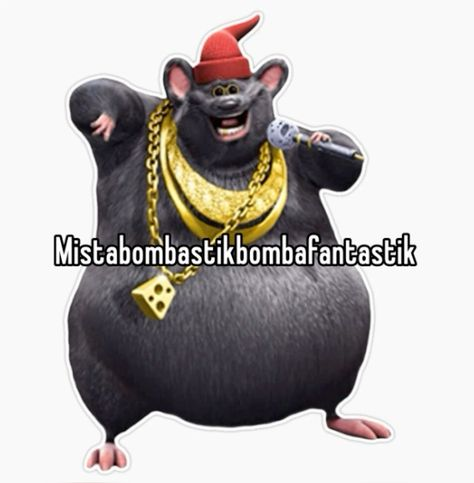
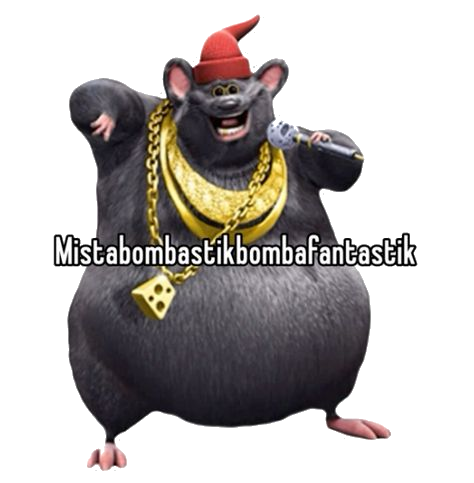
fix(overseer): transparent rat image and robust verdict button click handling

diff --git a/frontend/src/views/bombastic.ts b/frontend/src/views/bombastic.ts
@@ -23,7 +23,7 @@ export function renderBombastic(): string {
         <div class="max-w-[1340px] w-full mx-auto px-4 md:px-6 flex items-center justify-between">
           <div class="flex items-center space-x-4">
             <div class="flex items-center space-x-2.5">
-              <img src="/bombastic.png" alt="Mr. Boombastic" class="w-7 h-7 rounded-lg object-cover border border-rose-500/40 shadow-sm" />
+              <img src="/bombastic.png" alt="Mr. Boombastic" class="w-7 h-7 rounded-lg object-contain p-0.5 bg-rose-950/30 border border-rose-500/40 shadow-sm" />
               <span class="font-mono font-black text-sm tracking-widest text-rose-500 uppercase">MISTERBOMBASTIC</span>
             </div>
             <span class="hidden sm:inline-block px-2 py-0.5 rounded-full bg-rose-500/10 border border-rose-500/30 text-rose-400 font-mono text-[10px] font-bold tracking-wider">
@@ -167,8 +167,11 @@ export function renderBombastic(): string {
           <div class="absolute -top-24 -right-24 w-48 h-48 bg-rose-500/10 rounded-full blur-3xl pointer-events-none"></div>
 
           <div class="flex items-center justify-between border-b border-white/10 pb-4">
+          <div class="flex items-center justify-between border-b border-white/10 pb-4">
             <div class="flex items-center gap-3">
-              <img src="/bombastic.png" alt="Mr. Boombastic" class="w-10 h-10 rounded-xl object-cover border border-rose-500/40 shadow-inner" />
+              <div class="w-12 h-12 rounded-2xl bg-rose-500/10 border border-rose-500/20 flex items-center justify-center p-1 shadow-inner">
+                <img src="/bombastic.png" alt="Mr. Boombastic" class="w-full h-full object-contain filter drop-shadow-[0_2px_8px_rgba(244,63,94,0.3)]" />
+              </div>
               <div>
                 <div class="text-[10px] font-mono uppercase tracking-wider text-rose-400 font-bold">One Above All Authority</div>
                 <h3 class="text-base font-bold text-white font-mono uppercase tracking-tight">Issue Overseer Verdict</h3>
@@ -186,7 +189,7 @@ export function renderBombastic(): string {
             <div class="text-zinc-200 text-xs truncate font-medium pt-0.5" id="audit-target-task">...</div>
           </div>
 
-          <form id="audit-verdict-form" class="space-y-4">
+          <form id="audit-verdict-form" novalidate class="space-y-4">
             <input type="hidden" id="audit-task-id" />
             <input type="hidden" id="audit-user-id" />
 
@@ -208,7 +211,7 @@ export function renderBombastic(): string {
               </div>
               <div>
                 <label class="block text-[11px] font-mono text-zinc-400 uppercase tracking-wider mb-1">Adjusted Actual Hours</label>
-                <input type="number" step="0.25" min="0.1" max="12" id="audit-new-hours" class="w-full bg-[#140e10] border border-white/10 text-white font-mono text-xs rounded-xl px-3 py-2 outline-none" placeholder="1.0" />
+                <input type="number" id="audit-new-hours" class="w-full bg-[#140e10] border border-white/10 text-white font-mono text-xs rounded-xl px-3 py-2 outline-none" placeholder="1.0" />
               </div>
             </div>
 
@@ -216,7 +219,6 @@ export function renderBombastic(): string {
               <label class="block text-[11px] font-mono text-zinc-400 uppercase tracking-wider mb-1.5">Overseer Verdict Reason (Mandatory)</label>
               <textarea
                 id="audit-reason"
-                required
                 rows="3"
                 class="w-full bg-[#140e10] border border-white/10 focus:border-rose-500/50 focus:ring-1 focus:ring-rose-500/30 text-white font-sans text-xs rounded-xl p-3 outline-none transition-all placeholder:text-zinc-600 leading-relaxed resize-none"
                 placeholder="Explain the verdict reason (displayed on operative popup & squad activity feed)..."
@@ -238,9 +240,9 @@ export function renderBombastic(): string {
                 Cancel
               </button>
               <button
-                type="submit"
+                type="button"
                 id="submit-verdict-btn"
-                class="px-5 py-2 text-xs font-mono font-bold text-white bg-gradient-to-r from-rose-600 to-rose-700 hover:from-rose-500 hover:to-rose-600 rounded-xl transition-all cursor-pointer shadow-lg shadow-rose-950/50 flex items-center gap-1.5"
+                class="px-5 py-2.5 text-xs font-mono font-bold text-white bg-gradient-to-r from-rose-600 to-rose-700 hover:from-rose-500 hover:to-rose-600 rounded-xl transition-all cursor-pointer shadow-lg shadow-rose-950/50 flex items-center gap-2 active:scale-95"
               >
                 <span>Execute Verdict</span>
               </button>
@@ -257,7 +259,9 @@ export function renderBombastic(): string {
 
           <div class="flex items-center justify-between border-b border-white/10 pb-4">
             <div class="flex items-center gap-3">
-              <img src="/bombastic.png" alt="Mr. Boombastic" class="w-10 h-10 rounded-xl object-cover border border-amber-500/40 shadow-inner" />
+              <div class="w-12 h-12 rounded-2xl bg-amber-500/10 border border-amber-500/20 flex items-center justify-center p-1 shadow-inner">
+                <img src="/bombastic.png" alt="Mr. Boombastic" class="w-full h-full object-contain filter drop-shadow-[0_2px_8px_rgba(245,158,11,0.3)]" />
+              </div>
               <div>
                 <div class="text-[10px] font-mono uppercase tracking-wider text-amber-400 font-bold">Authoritative Sanction</div>
                 <h3 class="text-base font-bold text-white font-mono uppercase tracking-tight">Revoke Gym Check-in</h3>
@@ -266,7 +270,7 @@ export function renderBombastic(): string {
             <button type="button" id="close-quick-gym-btn" class="w-8 h-8 rounded-full bg-white/5 hover:bg-white/10 text-zinc-400 hover:text-white flex items-center justify-center transition-colors cursor-pointer">✕</button>
           </div>
 
-          <form id="quick-gym-form" class="space-y-4">
+          <form id="quick-gym-form" novalidate class="space-y-4">
             <div>
               <label class="block text-[11px] font-mono text-zinc-400 uppercase tracking-wider mb-1.5">Target Operative</label>
               <select id="quick-gym-user-select" class="w-full bg-[#140e10] border border-white/10 focus:border-amber-500/50 focus:ring-1 focus:ring-amber-500/30 text-white font-mono text-xs rounded-xl px-3.5 py-2.5 outline-none transition-all cursor-pointer">
@@ -660,51 +664,80 @@ export function setupBombasticLogic(navigateFn: (route: string) => void) {
   if (closeAuditBtn) closeAuditBtn.addEventListener('click', () => auditModal.classList.add('hidden'));
   if (cancelAuditBtn) cancelAuditBtn.addEventListener('click', () => auditModal.classList.add('hidden'));
 
-  if (auditForm) {
-    auditForm.addEventListener('submit', async (e) => {
-      e.preventDefault();
-      const submitBtn = document.getElementById('submit-verdict-btn') as HTMLButtonElement;
-      submitBtn.disabled = true;
-      submitBtn.textContent = 'Enforcing...';
+  const executeVerdictHandler = async () => {
+    const submitBtn = document.getElementById('submit-verdict-btn') as HTMLButtonElement;
+    const reasonInput = document.getElementById('audit-reason') as HTMLTextAreaElement;
+    const reason = reasonInput ? reasonInput.value.trim() : '';
 
-      const taskId = (document.getElementById('audit-task-id') as HTMLInputElement).value;
-      const userId = (document.getElementById('audit-user-id') as HTMLInputElement).value;
-      const actionType = auditActionSelect.value;
-      const reason = (document.getElementById('audit-reason') as HTMLTextAreaElement).value;
-
-      try {
-        let verdict: VerdictItem;
-        if (actionType === 'REVOKE_GYM') {
-          verdict = await revokeGymVerdict(userId, reason);
-        } else if (actionType === 'REJECT_TASK') {
-          verdict = await rejectTaskVerdict(taskId, reason);
-        } else if (actionType === 'REWRITE_TASK') {
-          const newTitle = (document.getElementById('audit-new-title') as HTMLInputElement).value;
-          const newHours = parseFloat((document.getElementById('audit-new-hours') as HTMLInputElement).value) || 1.0;
-          verdict = await rewriteTaskVerdict(taskId, newTitle, newHours, reason);
-        } else {
-          verdict = await revertPendingVerdict(taskId, reason);
-        }
-
-        auditModal.classList.add('hidden');
-        showNotification(`⚖ Verdict executed: -${verdict.points_deducted} pts docked!`);
-
-        // Broadcast verdict to all connected operatives via Supabase Realtime
-        try {
-          supabase.channel('squad-verdicts').send({
-            type: 'broadcast',
-            event: 'verdict-issued',
-            payload: verdict
-          });
-        } catch {}
-
-        await loadAllOverseerTelemetry();
-      } catch (err: any) {
-        showNotification(`Verdict execution failed: ${err.message}`, 'error');
-      } finally {
-        submitBtn.disabled = false;
-        submitBtn.textContent = 'Execute Verdict';
+    if (!reason) {
+      showNotification('Verdict Reason Required: Please specify the reason for this sanction.', 'error');
+      if (reasonInput) {
+        reasonInput.focus();
+        reasonInput.classList.add('border-rose-500', 'ring-1', 'ring-rose-500');
+        setTimeout(() => reasonInput.classList.remove('border-rose-500', 'ring-1', 'ring-rose-500'), 2500);
       }
+      return;
+    }
+
+    if (submitBtn) {
+      submitBtn.disabled = true;
+      submitBtn.innerHTML = `<span class="w-3.5 h-3.5 rounded-full border-2 border-white border-t-transparent animate-spin mr-1"></span><span>Enforcing...</span>`;
+    }
+
+    const taskId = (document.getElementById('audit-task-id') as HTMLInputElement).value;
+    const userId = (document.getElementById('audit-user-id') as HTMLInputElement).value;
+    const actionType = auditActionSelect.value;
+
+    try {
+      let verdict: VerdictItem;
+      if (actionType === 'REVOKE_GYM') {
+        verdict = await revokeGymVerdict(userId, reason);
+      } else if (actionType === 'REJECT_TASK') {
+        verdict = await rejectTaskVerdict(taskId, reason);
+      } else if (actionType === 'REWRITE_TASK') {
+        const newTitle = (document.getElementById('audit-new-title') as HTMLInputElement).value || 'Audited Task';
+        const newHours = parseFloat((document.getElementById('audit-new-hours') as HTMLInputElement).value) || 1.0;
+        verdict = await rewriteTaskVerdict(taskId, newTitle, newHours, reason);
+      } else {
+        verdict = await revertPendingVerdict(taskId, reason);
+      }
+
+      auditModal.classList.add('hidden');
+      showNotification(`⚖ Verdict executed: -${verdict.points_deducted} pts docked from ${verdict.target_user_name || 'Operative'}!`);
+
+      // Broadcast verdict to all connected operatives via Supabase Realtime
+      try {
+        supabase.channel('squad-verdicts').send({
+          type: 'broadcast',
+          event: 'verdict-issued',
+          payload: verdict
+        });
+      } catch {}
+
+      await loadAllOverseerTelemetry();
+    } catch (err: any) {
+      console.error("Verdict execution error:", err);
+      showNotification(`Verdict execution failed: ${err.message}`, 'error');
+    } finally {
+      if (submitBtn) {
+        submitBtn.disabled = false;
+        submitBtn.innerHTML = `<span>Execute Verdict</span>`;
+      }
+    }
+  };
+
+  const submitVerdictBtn = document.getElementById('submit-verdict-btn');
+  if (submitVerdictBtn) {
+    submitVerdictBtn.addEventListener('click', (e) => {
+      e.preventDefault();
+      executeVerdictHandler();
+    });
+  }
+
+  if (auditForm) {
+    auditForm.addEventListener('submit', (e) => {
+      e.preventDefault();
+      executeVerdictHandler();
     });
   }
 
@@ -722,39 +755,67 @@ export function setupBombasticLogic(navigateFn: (route: string) => void) {
   if (closeQuickGymBtn) closeQuickGymBtn.addEventListener('click', () => quickGymModal.classList.add('hidden'));
   if (cancelQuickGymBtn) cancelQuickGymBtn.addEventListener('click', () => quickGymModal.classList.add('hidden'));
 
-  if (quickGymForm) {
-    quickGymForm.addEventListener('submit', async (e) => {
-      e.preventDefault();
-      const submitBtn = document.getElementById('submit-quick-gym-btn') as HTMLButtonElement;
-      submitBtn.disabled = true;
-      submitBtn.textContent = 'Revoking...';
+  const executeQuickGymHandler = async () => {
+    const submitBtn = document.getElementById('submit-quick-gym-btn') as HTMLButtonElement;
+    const reasonInput = document.getElementById('quick-gym-reason') as HTMLTextAreaElement;
+    const reason = reasonInput ? reasonInput.value.trim() : '';
 
-      const targetUid = quickGymUserSelect.value;
-      const reason = (document.getElementById('quick-gym-reason') as HTMLTextAreaElement).value;
+    if (!reason) {
+      showNotification('Revocation Reason Required: Please specify why gym check-in is invalid.', 'error');
+      if (reasonInput) {
+        reasonInput.focus();
+        reasonInput.classList.add('border-amber-500', 'ring-1', 'ring-amber-500');
+        setTimeout(() => reasonInput.classList.remove('border-amber-500', 'ring-1', 'ring-amber-500'), 2500);
+      }
+      return;
+    }
+
+    if (submitBtn) {
+      submitBtn.disabled = true;
+      submitBtn.innerHTML = `<span class="w-3.5 h-3.5 rounded-full border-2 border-white border-t-transparent animate-spin mr-1"></span><span>Revoking...</span>`;
+    }
+
+    const targetUid = quickGymUserSelect.value;
+
+    try {
+      const v = await revokeGymVerdict(targetUid, reason);
+      quickGymModal.classList.add('hidden');
+      if (quickGymForm) (quickGymForm as HTMLFormElement).reset();
+      showNotification(`🏋 Gym Check-in Revoked: -${v.points_deducted} pts docked!`);
 
       try {
-        const v = await revokeGymVerdict(targetUid, reason);
-        quickGymModal.classList.add('hidden');
-        quickGymForm.reset();
-        showNotification(`🏋 Gym Check-in Revoked: -${v.points_deducted} pts docked!`);
+        supabase.channel('squad-verdicts').send({
+          type: 'broadcast',
+          event: 'verdict-issued',
+          payload: v
+        });
+      } catch {}
 
-        // Broadcast gym revocation verdict to squad
-        try {
-          supabase.channel('squad-verdicts').send({
-            type: 'broadcast',
-            event: 'verdict-issued',
-            payload: v
-          });
-        } catch {}
+      await loadAllOverseerTelemetry();
 
-        await loadAllOverseerTelemetry();
-
-      } catch (err: any) {
-        showNotification(`Gym revocation failed: ${err.message}`, 'error');
-      } finally {
+    } catch (err: any) {
+      console.error("Gym revoke error:", err);
+      showNotification(`Gym revocation failed: ${err.message}`, 'error');
+    } finally {
+      if (submitBtn) {
         submitBtn.disabled = false;
-        submitBtn.textContent = 'Revoke (-5 pts)';
+        submitBtn.innerHTML = `<span>Revoke (-5 pts)</span>`;
       }
+    }
+  };
+
+  const submitQuickGymBtn = document.getElementById('submit-quick-gym-btn');
+  if (submitQuickGymBtn) {
+    submitQuickGymBtn.addEventListener('click', (e) => {
+      e.preventDefault();
+      executeQuickGymHandler();
+    });
+  }
+
+  if (quickGymForm) {
+    quickGymForm.addEventListener('submit', (e) => {
+      e.preventDefault();
+      executeQuickGymHandler();
     });
   }
 

diff --git a/frontend/src/views/dashboard.ts b/frontend/src/views/dashboard.ts
@@ -1009,8 +1009,8 @@ function renderFilteredTasks(container: HTMLDivElement) {
         const label = actionLabels[v.action_type] || v.action_type;
         return `
           <div class="p-3.5 rounded-2xl bg-[#120a0b] border border-rose-500/30 flex items-start gap-3 shadow-lg shadow-black/40 text-left">
-            <div class="w-9 h-9 rounded-xl overflow-hidden border border-rose-500/40 shrink-0 bg-black shadow-inner">
-              <img src="/bombastic.png" alt="Mr. Boombastic" class="w-full h-full object-cover" />
+            <div class="w-9 h-9 rounded-xl overflow-hidden border border-rose-500/40 shrink-0 bg-rose-950/20 shadow-inner p-0.5">
+              <img src="/bombastic.png" alt="Mr. Boombastic" class="w-full h-full object-contain filter drop-shadow-[0_1px_4px_rgba(244,63,94,0.3)]" />
             </div>
             <div class="flex-1 min-w-0">
               <div class="flex items-center justify-between gap-2">

diff --git a/frontend/src/views/components/verdict_modal.ts b/frontend/src/views/components/verdict_modal.ts
@@ -16,7 +16,7 @@ export function renderVerdictModal(): string {
               <img 
                 src="/bombastic.png" 
                 alt="Mr. Boombastic" 
-                class="w-14 h-14 rounded-2xl object-cover border-2 border-rose-500/50 shadow-[0_0_20px_rgba(244,63,94,0.35)] bg-black"
+                class="w-14 h-14 rounded-2xl object-contain p-1 border-2 border-rose-500/50 shadow-[0_0_20px_rgba(244,63,94,0.35)] bg-rose-950/20"
               />
               <div class="absolute -bottom-1 -right-1 w-5 h-5 rounded-full bg-rose-600 border border-black flex items-center justify-center text-[10px] shadow" title="One Above All Authority">
                 ⚖
